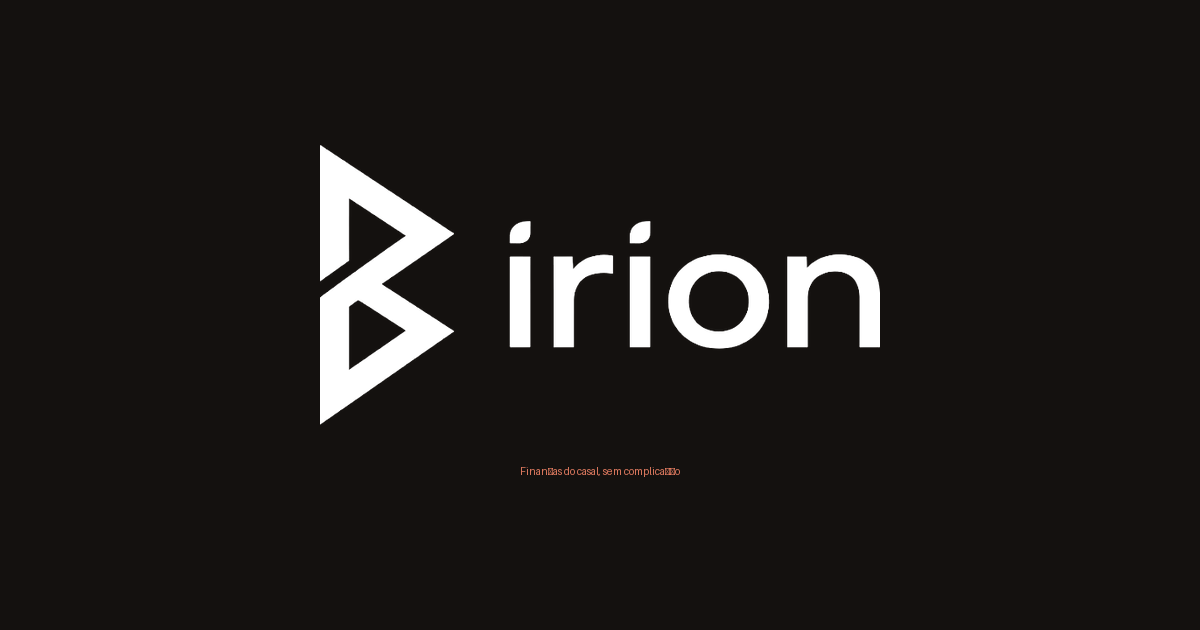
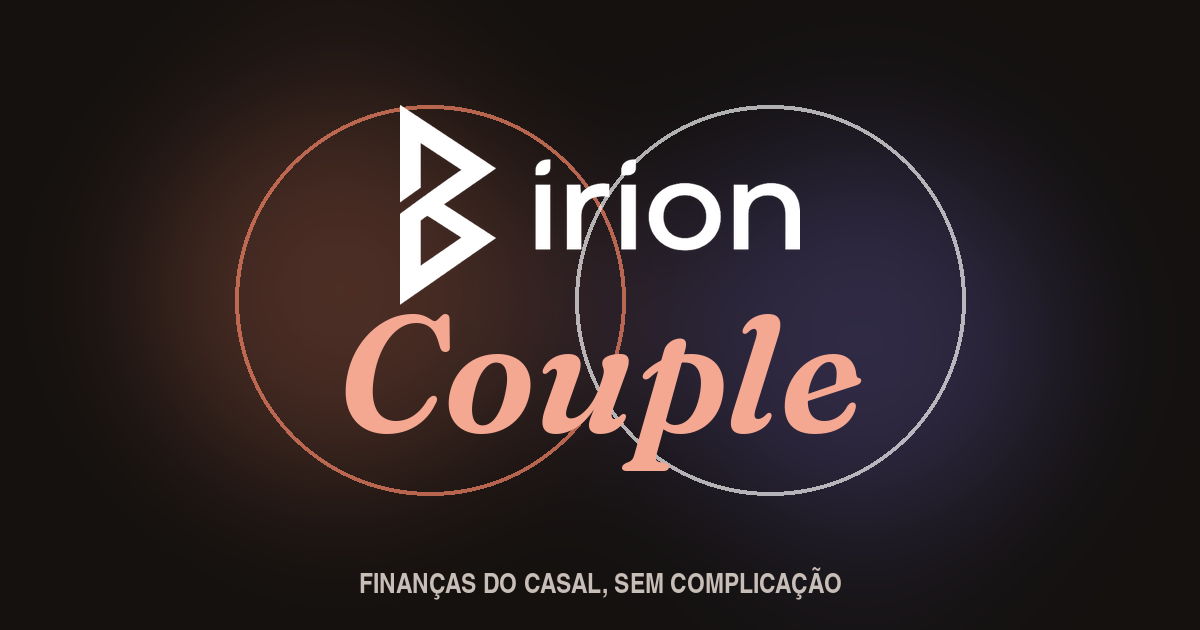
Arte do nome Couple: letreiro em itálico com dois círculos na entrada, na marca do menu e na imagem de compartilhamento
Claude-Session: https://claude.ai/code/session_01FJmr3E5kBtxwBWchFQH1qx

diff --git a/src/app/globals.css b/src/app/globals.css
@@ -9516,3 +9516,63 @@ body.modal-open .new-fab {
 .auth-theme-row .palette-pick {
   flex-wrap: nowrap;
 }
+
+/* ---------- Arte do nome "Couple" ---------- */
+.couple-word,
+.brand .brand-fin,
+.couple-title {
+  font-family: var(--font-display), Georgia, "Times New Roman", serif;
+  font-style: italic;
+  font-weight: 600;
+}
+.brand .brand-fin {
+  font-size: 1.25rem;
+  letter-spacing: 0;
+  color: var(--brand);
+}
+.couple-art {
+  position: relative;
+  display: grid;
+  place-items: center;
+  height: 250px;
+  margin: 0 0 22px;
+}
+.couple-art .ring {
+  position: absolute;
+  width: 210px;
+  height: 210px;
+  border-radius: 50%;
+  border: 3px solid var(--brand);
+  background: color-mix(in srgb, var(--brand) 10%, transparent);
+}
+.couple-art .ring-b {
+  border-color: var(--text-3);
+  background: color-mix(in srgb, var(--text-3) 8%, transparent);
+  transform: translateX(86px);
+}
+.couple-art .ring-a {
+  transform: translateX(-86px);
+}
+.couple-title {
+  position: relative;
+  margin: 0;
+  font-size: 112px;
+  line-height: 1;
+  letter-spacing: -0.02em;
+  color: var(--brand-strong);
+  text-shadow: 0 2px 0 color-mix(in srgb, var(--surface) 70%, transparent);
+}
+@media (max-width: 899px) {
+  .couple-art {
+    height: 140px;
+  }
+  .couple-art .ring {
+    width: 120px;
+    height: 120px;
+  }
+  .couple-art .ring-a { transform: translateX(-48px); }
+  .couple-art .ring-b { transform: translateX(48px); }
+  .couple-title {
+    font-size: 64px;
+  }
+}

diff --git a/src/app/layout.tsx b/src/app/layout.tsx
@@ -1,11 +1,13 @@
 import Script from "next/script";
 import type { Metadata, Viewport } from "next";
-import { Inter } from "next/font/google";
+import { Fraunces, Inter } from "next/font/google";
 import { THEME_SCRIPT } from "@/components/theme-toggle";
 import { Toaster } from "@/components/toaster";
 import "./globals.css";
 
 const inter = Inter({ variable: "--font-sans", subsets: ["latin"], display: "swap" });
+// Só para a palavra "Couple" na marca: itálico com serifa, em contraste com o logotipo geométrico.
+const fraunces = Fraunces({ variable: "--font-display", subsets: ["latin"], style: "italic", weight: "600", display: "swap" });
 
 // Prévia do link (WhatsApp, Instagram, iMessage…): a logo (opengraph-image.png) e o diferencial.
 const SHARE_TITLE = "Birion Couple - Finanças do casal, sem complicação";
@@ -40,7 +42,7 @@ export const viewport: Viewport = {
 
 export default function RootLayout({ children }: LayoutProps<"/">) {
   return (
-    <html lang="pt-BR" className={inter.variable} data-theme="dark" suppressHydrationWarning>
+    <html lang="pt-BR" className={`${inter.variable} ${fraunces.variable}`} data-theme="dark" suppressHydrationWarning>
       <head>
         <meta name="theme-color" content="#1c1613" />
         {/* Aplica o tema salvo antes de desenhar a página (sem piscar claro → escuro). */}

diff --git a/src/components/auth/brand-panel.tsx b/src/components/auth/brand-panel.tsx
@@ -1,21 +1,21 @@
-/** Painel esquerdo: marca, título, descrição e benefícios. */
+/** Painel esquerdo: o logotipo e a arte do nome "Couple" (dois círculos que se cruzam). */
 export function BrandPanel() {
   return (
     <section className="brand-panel" aria-label="Birion Couple">
       <div className="brand-logo">
         <i className="blogo" aria-hidden />
-        <span>
-          <em>Couple</em>
-        </span>
       </div>
       <div className="brand-content">
-        <div className="brand-copy">
-          <h2 className="brand-title">
-            Suas finanças,
-            {" "}<br />
-            <em>sem complicação.</em>
-          </h2>
+        <div className="couple-art" aria-hidden>
+          <span className="ring ring-a" />
+          <span className="ring ring-b" />
+          <p className="couple-title">Couple</p>
         </div>
+        <h2 className="brand-title">
+          Suas finanças,
+          {" "}<br />
+          <em>sem complicação.</em>
+        </h2>
       </div>
     </section>
   );
